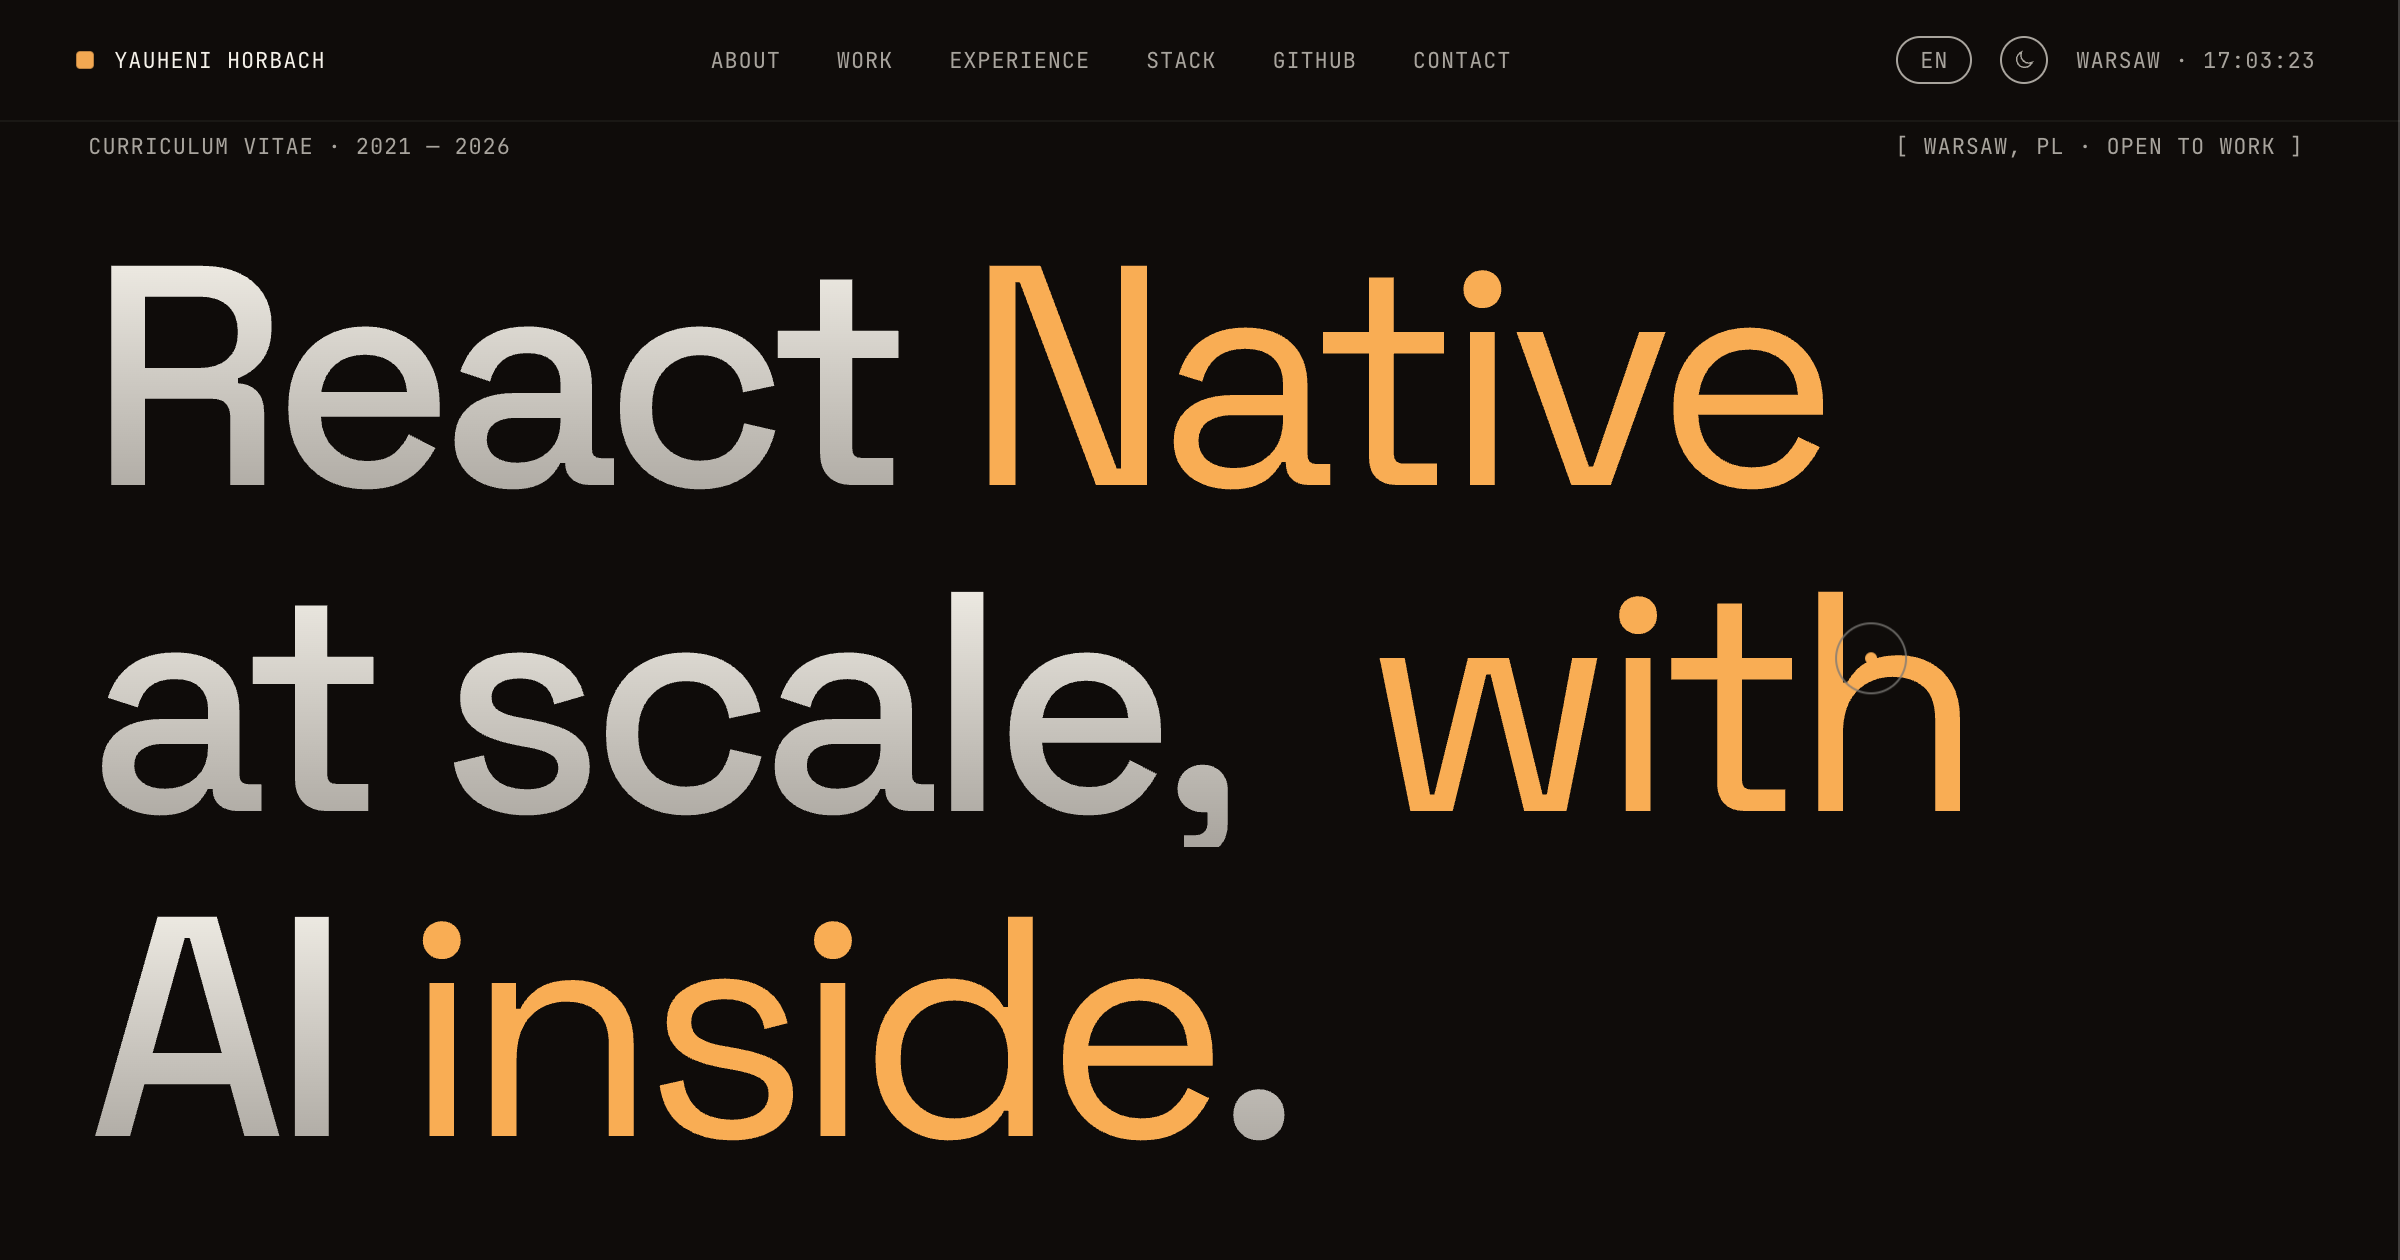
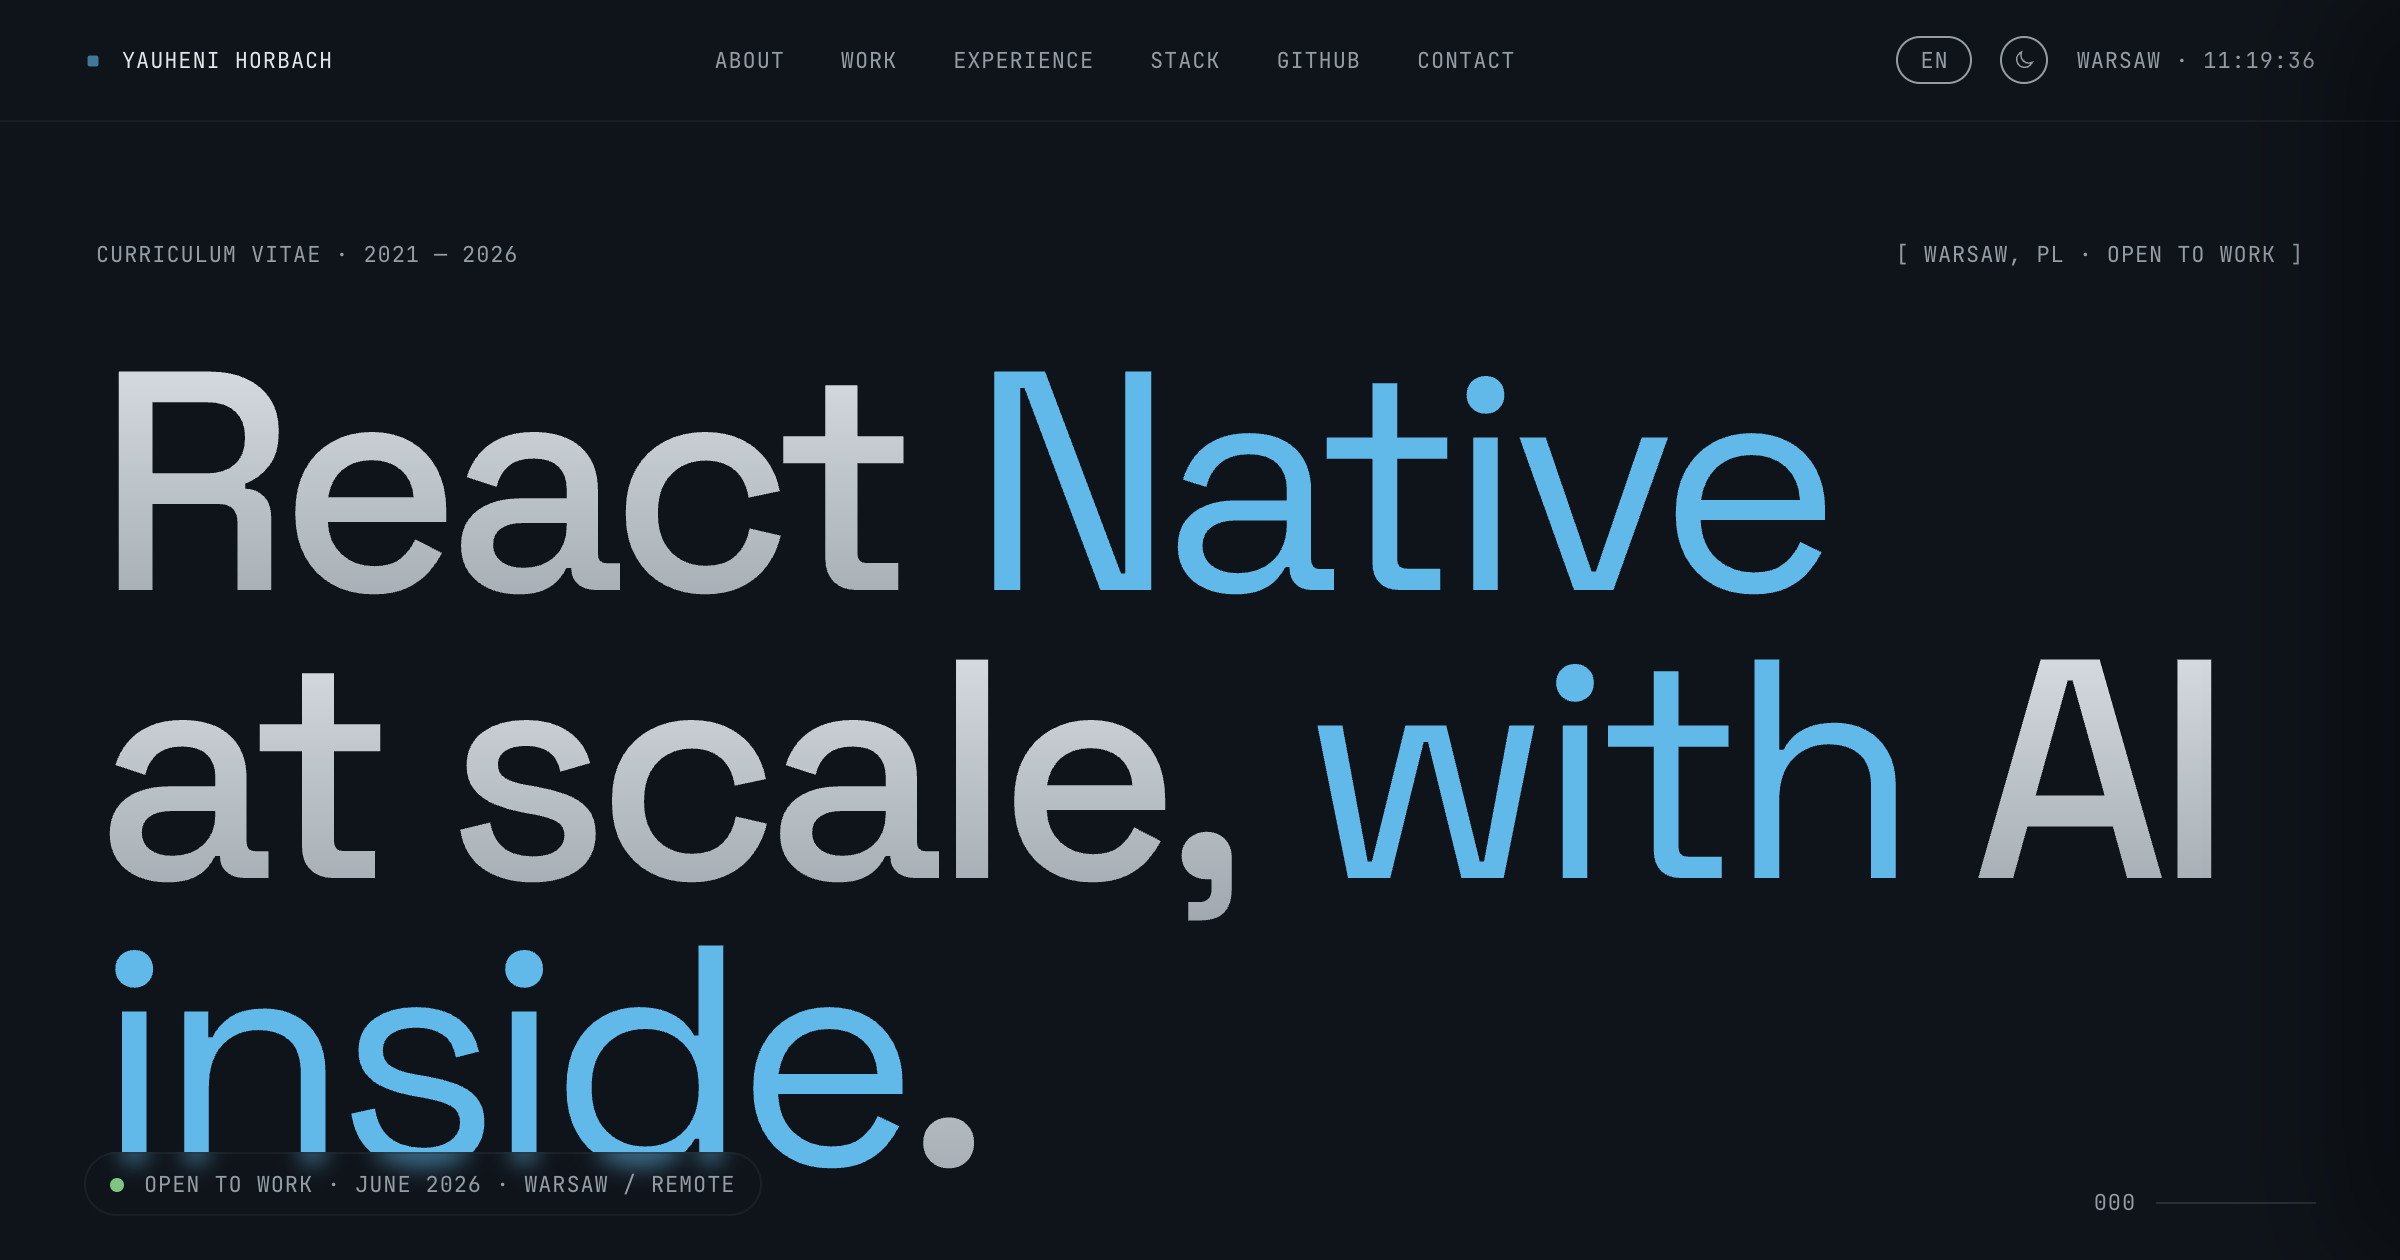
Update color themes

diff --git a/src/styles.css b/src/styles.css
@@ -1,12 +1,12 @@
 :root {
-  --bg: oklch(0.16 0.008 60);
-  --bg-2: oklch(0.19 0.009 60);
-  --fg: oklch(0.96 0.012 85);
-  --fg-dim: oklch(0.72 0.012 75);
-  --fg-faint: oklch(0.42 0.01 70);
-  --rule: oklch(0.28 0.008 70);
-  --accent: oklch(0.81 0.16 65);
-  --accent-deep: oklch(0.66 0.17 55);
+  --bg: oklch(0.19 0.014 250);
+  --bg-2: oklch(0.22 0.015 250);
+  --fg: oklch(0.92 0.008 240);
+  --fg-dim: oklch(0.69 0.014 245);
+  --fg-faint: oklch(0.46 0.014 245);
+  --rule: oklch(0.3 0.014 245);
+  --accent: oklch(0.75 0.11 235);
+  --accent-deep: oklch(0.62 0.13 245);
   --serif: "Space Grotesk", system-ui, sans-serif;
   --sans: "Space Grotesk", system-ui, sans-serif;
   --mono: "JetBrains Mono", ui-monospace, monospace;
@@ -41,7 +41,7 @@ a { color: inherit; text-decoration: none; }
 }
 .cursor-ring {
   width: 36px; height: 36px; border-radius: 50%;
-  border: 1px solid oklch(0.96 0.012 85 / .4);
+  border: 1px solid oklch(0.92 0.008 240 / .35);
   transition: width .3s cubic-bezier(.2,.8,.2,1), height .3s cubic-bezier(.2,.8,.2,1),
               border-color .25s ease, background .25s ease, backdrop-filter .25s ease;
   mix-blend-mode: difference;
@@ -106,20 +106,20 @@ section { position: relative; }
 
 /* Light theme */
 [data-theme="light"] {
-  --bg: oklch(0.97 0.005 80);
-  --bg-2: oklch(0.94 0.005 80);
-  --fg: oklch(0.18 0.012 70);
-  --fg-dim: oklch(0.42 0.012 70);
-  --fg-faint: oklch(0.62 0.008 75);
-  --rule: oklch(0.84 0.005 75);
-  --accent: oklch(0.58 0.17 50);
-  --accent-deep: oklch(0.48 0.19 45);
+  --bg: oklch(0.96 0.006 240);
+  --bg-2: oklch(0.93 0.008 240);
+  --fg: oklch(0.28 0.02 250);
+  --fg-dim: oklch(0.48 0.02 250);
+  --fg-faint: oklch(0.65 0.014 245);
+  --rule: oklch(0.86 0.01 240);
+  --accent: oklch(0.55 0.13 250);
+  --accent-deep: oklch(0.46 0.14 255);
 }
-[data-theme="light"] .terrain-stage { background: oklch(0.92 0.008 75); }
-[data-theme="light"] .terrain-tip { background: oklch(0.97 0.005 80 / .92); }
+[data-theme="light"] .terrain-stage { background: oklch(0.91 0.01 240); }
+[data-theme="light"] .terrain-tip { background: oklch(0.96 0.006 240 / .92); }
 [data-theme="light"] .cursor-ring {
   mix-blend-mode: normal;
-  border-color: oklch(0.20 0.012 70 / .5);
+  border-color: oklch(0.3 0.02 250 / .45);
 }
 [data-theme="light"] body.cur-link .cursor-ring { border-color: var(--accent); }
 [data-theme="light"] body.cur-text .cursor-ring { background: var(--fg); }
@@ -137,13 +137,13 @@ body, .chrome, .status, .terrain-stage { transition: background .35s ease, color
   -webkit-backdrop-filter: blur(5px);
 }
 .status .dot {
-  width: 7px; height: 7px; border-radius: 50%; background: oklch(0.78 0.18 145);
-  box-shadow: 0 0 0 0 oklch(0.78 0.18 145 / .6);
+  width: 7px; height: 7px; border-radius: 50%; background: oklch(0.76 0.12 145);
+  box-shadow: 0 0 0 0 oklch(0.76 0.12 145 / .5);
   animation: ring 2s ease-in-out infinite;
 }
 @keyframes ring {
-  0% { box-shadow: 0 0 0 0 oklch(0.78 0.18 145 / .6); }
-  100% { box-shadow: 0 0 0 12px oklch(0.78 0.18 145 / 0); }
+  0% { box-shadow: 0 0 0 0 oklch(0.76 0.12 145 / .5); }
+  100% { box-shadow: 0 0 0 12px oklch(0.76 0.12 145 / 0); }
 }
 .scroll-prog {
   position: fixed; right: clamp(20px, 3.5vw, 44px); bottom: 22px; z-index: 50;
@@ -192,9 +192,12 @@ body, .chrome, .status, .terrain-stage { transition: background .35s ease, color
   display: inline-block;
   background: linear-gradient(180deg, var(--fg) 0%, var(--fg-dim) 100%);
   -webkit-background-clip: text; background-clip: text; -webkit-text-fill-color: transparent;
+  /* line-height .92 пускает выносные части глифов за границы бокса,
+     где background-clip: text их не закрашивает — расширяем область фона */
+  padding: .1em .05em .24em; margin: -.1em -.05em -.24em;
 }
-.hero h1 .word { display: inline-block; overflow: hidden; padding-bottom: .12em; vertical-align: top; }
-.hero h1 .word > span { display: inline-block; transform: translateY(110%); transition: transform 1.2s cubic-bezier(.2,.8,.2,1); }
+.hero h1 .word { display: inline-block; overflow: hidden; padding: .1em 0 .24em; margin: -.1em 0 -.24em; vertical-align: top; }
+.hero h1 .word > span { display: inline-block; transform: translateY(150%); transition: transform 1.2s cubic-bezier(.2,.8,.2,1); }
 .hero.in h1 .word > span { transform: none; }
 
 .hero .sub {
@@ -305,12 +308,12 @@ body, .chrome, .status, .terrain-stage { transition: background .35s ease, color
 .work-modal.is-open { pointer-events: auto; }
 .work-modal-backdrop {
   position: absolute; inset: 0;
-  background: oklch(0.10 0.008 60 / 0);
+  background: oklch(0.10 0.012 250 / 0);
   backdrop-filter: blur(0);
   transition: background .4s ease, backdrop-filter .4s ease;
 }
 .work-modal.is-open .work-modal-backdrop {
-  background: oklch(0.10 0.008 60 / .55);
+  background: oklch(0.10 0.012 250 / .55);
   backdrop-filter: blur(6px);
 }
 .work-modal-panel {
@@ -323,7 +326,7 @@ body, .chrome, .status, .terrain-stage { transition: background .35s ease, color
   overflow-y: auto;
   transform: translateX(100%);
   transition: transform .5s cubic-bezier(.2,.8,.2,1);
-  box-shadow: -24px 0 60px oklch(0.06 0.008 60 / .4);
+  box-shadow: -24px 0 60px oklch(0.06 0.012 250 / .4);
 }
 .work-modal.is-open .work-modal-panel { transform: translateX(0); }
 .work-modal-head { position: relative; }
@@ -425,7 +428,7 @@ body, .chrome, .status, .terrain-stage { transition: background .35s ease, color
 }
 .xp-cell::before {
   content: ""; position: absolute; inset: 0;
-  background: radial-gradient(600px 200px at var(--mx, 50%) var(--my, 50%), oklch(0.81 0.16 65 / .07), transparent 60%);
+  background: radial-gradient(600px 200px at var(--mx, 50%) var(--my, 50%), oklch(0.75 0.11 235 / .06), transparent 60%);
   opacity: 0; transition: opacity .4s ease;
 }
 .xp-cell:hover::before { opacity: 1; }
@@ -461,9 +464,9 @@ body, .chrome, .status, .terrain-stage { transition: background .35s ease, color
 .orbit .ring {
   position: absolute; inset: 0; border: 1px solid var(--rule); border-radius: 50%;
 }
-.orbit .ring.r2 { inset: 12%; border-style: dashed; border-color: oklch(0.28 0.008 70 / .6); }
+.orbit .ring.r2 { inset: 12%; border-style: dashed; border-color: oklch(0.3 0.014 245 / .6); }
 .orbit .ring.r3 { inset: 22%; }
-.orbit .ring.r4 { inset: 30%; border-style: dashed; border-color: oklch(0.28 0.008 70 / .6); }
+.orbit .ring.r4 { inset: 30%; border-style: dashed; border-color: oklch(0.3 0.014 245 / .6); }
 .orbit .core {
   position: absolute; inset: 0; display: grid; place-items: center;
   font-family: var(--sans); font-weight: 400; font-size: clamp(24px, 2.4vw, 36px);
@@ -618,7 +621,7 @@ footer .right { text-align: right; }
 .terrain-meta .tm-hint .tm-sub { font-family: var(--sans); text-transform: none; letter-spacing: 0; font-size: 13px; color: var(--fg-dim); }
 .terrain-stage {
   position: relative; aspect-ratio: 16 / 9; min-height: 380px;
-  background: linear-gradient(180deg, oklch(0.18 0.008 60) 0%, oklch(0.14 0.008 60) 100%);
+  background: linear-gradient(180deg, oklch(0.21 0.015 250) 0%, oklch(0.17 0.015 250) 100%);
   border: 1px solid var(--rule); border-radius: 4px; overflow: hidden;
 }
 .terrain-stage canvas { width: 100%; height: 100%; display: block; cursor: grab; }
@@ -626,7 +629,7 @@ footer .right { text-align: right; }
 .terrain-tip {
   position: absolute; pointer-events: none; opacity: 0;
   padding: 8px 12px; border: 1px solid var(--rule); border-radius: 4px;
-  background: oklch(0.18 0.008 60 / .92); backdrop-filter: blur(6px);
+  background: oklch(0.21 0.015 250 / .92); backdrop-filter: blur(6px);
   font-family: var(--mono); font-size: 11px; letter-spacing: .04em;
   color: var(--fg); transform: translate(-50%, calc(-100% - 12px));
   transition: opacity .2s ease;
@@ -646,8 +649,8 @@ footer .right { text-align: right; }
   font-family: var(--mono); font-size: 10px; letter-spacing: .06em; text-transform: uppercase; color: var(--fg-dim);
 }
 .terrain-legend i { width: 10px; height: 10px; border-radius: 2px; display: inline-block; }
-.terrain-legend-empty { background: #3a342a; }
-[data-theme="light"] .terrain-legend-empty { background: #c9bfa9; }
+.terrain-legend-empty { background: #2b3242; }
+[data-theme="light"] .terrain-legend-empty { background: #aab6c9; }
 @media (max-width: 900px) {
   .terrain-wrap { grid-template-columns: 1fr; }
   .terrain-stage { min-height: 320px; }

diff --git a/src/components/GitHubTerrain.tsx b/src/components/GitHubTerrain.tsx
@@ -12,8 +12,8 @@ const COLS = 53;
 const ROWS = 7;
 
 const THEME_COLORS = {
-  dark: { plate: 0x1a1812, empty: "#3a342a" },
-  light: { plate: 0xe9e2d4, empty: "#c9bfa9" },
+  dark: { plate: 0x141823, empty: "#2b3242" },
+  light: { plate: 0xd9e0eb, empty: "#aab6c9" },
 } as const;
 
 function generateSyntheticData(): number[][] {
@@ -166,9 +166,9 @@ export function GitHubTerrain() {
     const colorFor = (v: number, max: number) => {
       if (v === 0) return new THREE.Color(initialColors.empty);
       const x = v / max;
-      const c1 = new THREE.Color("#5a4524");
-      const c2 = new THREE.Color("#d68a3a");
-      const c3 = new THREE.Color("#ffc36b");
+      const c1 = new THREE.Color("#2b4a73");
+      const c2 = new THREE.Color("#4a8fd4");
+      const c3 = new THREE.Color("#8fd0ff");
       if (x < 0.5) return c1.clone().lerp(c2, x / 0.5);
       return c2.clone().lerp(c3, (x - 0.5) / 0.5);
     };
@@ -179,10 +179,10 @@ export function GitHubTerrain() {
     const camera = new THREE.PerspectiveCamera(38, 1, 0.1, 200);
 
     scene.add(new THREE.AmbientLight(0xffffff, 0.55));
-    const dir = new THREE.DirectionalLight(0xfff1d0, 1.1);
+    const dir = new THREE.DirectionalLight(0xdde8ff, 1.1);
     dir.position.set(8, 14, 6);
     scene.add(dir);
-    const rim = new THREE.DirectionalLight(0xff9d4d, 0.6);
+    const rim = new THREE.DirectionalLight(0x4d9aff, 0.6);
     rim.position.set(-6, 6, -4);
     scene.add(rim);
 
@@ -515,9 +515,9 @@ export function GitHubTerrain() {
           <div className="terrain-legend">
             <span>{t("github.less")}</span>
             <i className="terrain-legend-empty" />
-            <i style={{ background: "oklch(0.62 0.10 65)" }} />
-            <i style={{ background: "oklch(0.74 0.15 65)" }} />
-            <i style={{ background: "oklch(0.85 0.18 70)" }} />
+            <i style={{ background: "oklch(0.45 0.10 255)" }} />
+            <i style={{ background: "oklch(0.63 0.13 250)" }} />
+            <i style={{ background: "oklch(0.82 0.10 235)" }} />
             <span>{t("github.more")}</span>
           </div>
         </div>

diff --git a/index.html b/index.html
@@ -5,7 +5,7 @@
     <meta name="viewport" content="width=device-width, initial-scale=1" />
     <link rel="icon" type="image/svg+xml" href="/favicon.svg" />
     <link rel="apple-touch-icon" href="/favicon.svg" />
-    <meta name="theme-color" content="#1f1c19" />
+    <meta name="theme-color" content="#171b24" />
     <title>Yauheni Horbach — Senior React Native Developer</title>
     <meta
       name="description"
